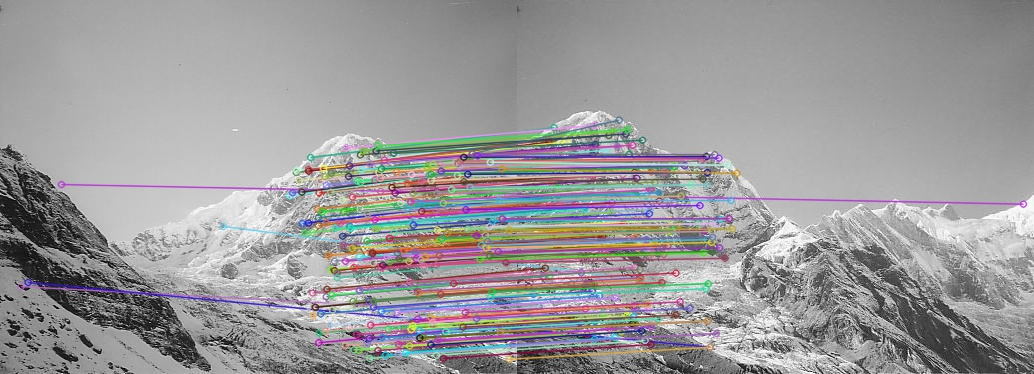
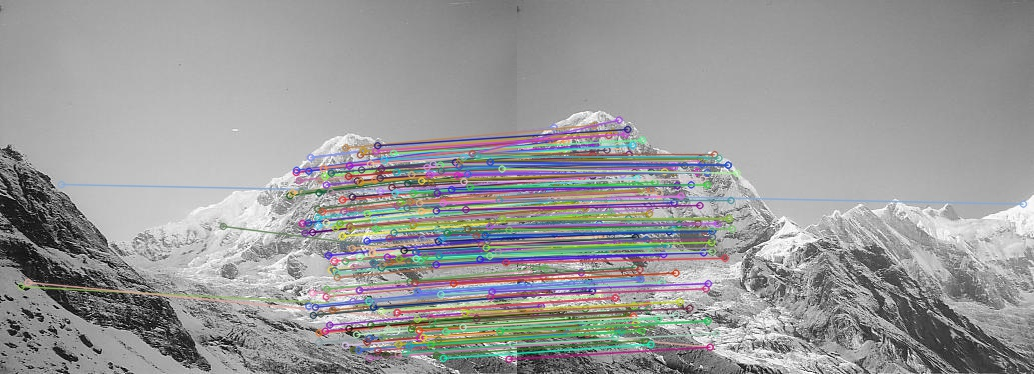
part 1 to 4 for Image features and homography completed

Changed region(s): [[0.0, 0.2941, 1.0, 0.9706], [0.0309, 0.4706, 0.1547, 0.5], [0.2166, 0.5882, 0.2476, 0.6176]]

diff --git a/image_features_homography.py b/image_features_homography.py
@@ -44,23 +44,18 @@ for i,(m,n) in enumerate(matches):
     if m.distance < 0.75*n.distance:
         ratioTestM.append([m])
         
-img3 = cv2.drawMatchesKnn(img1_g.copy(),keypoints_img1knn,img2_g.copy(),keypoints_img2knn,ratioTestM,None,flags =2)
+img3 = cv2.drawMatchesKnn(img1_g.copy(),keypoints_img1knn.copy(),img2_g.copy(),keypoints_img2knn.copy(),ratioTestM,None,flags =2)
 
 cv2.imwrite('1/task1_matches_knn.jpg',img3)
 
 
 # Part 3
 ratioTestM = np.array(ratioTestM)
-src_pts = np.float32([keypoints_img1knn[m.queryIdx].pt for m in ratioTestM.flatten()]).reshape(-1,1,2)
-dst_pts = np.float32([keypoints_img2knn[m.trainIdx].pt for m in ratioTestM.flatten()]).reshape(-1,1,2)
+src_pts = np.float32([keypoints_img1knn[m.queryIdx].pt for m in ratioTestM.flatten()])
+dst_pts = np.float32([keypoints_img2knn[m.trainIdx].pt for m in ratioTestM.flatten()])
 
-M, mask = cv2.findHomography(dst_pts,src_pts, cv2.RANSAC,5)
+M, mask = cv2.findHomography(src_pts,dst_pts, cv2.RANSAC,1)
 matchesMask = mask.ravel().tolist()
-
-draw_params = dict(matchColor = (0,255,0), # draw matches in green color
-                   singlePointColor = None,
-                   matchesMask = matchesMask, # draw only inliers
-                   flags = 2)
 
 # Random Sampling 10 points
 rand10matchesMask = []
@@ -71,27 +66,32 @@ for i in range(0,len(matchesMask)):
 rand10Places = np.random.choice(inlier_idx,10,replace=False)
 for i in range(0,len(matchesMask)):
     if((i == rand10Places).any()):
-        print(i)
         rand10matchesMask.append(1)
     else:
         rand10matchesMask.append(0)
 
-
-draw_params = dict(matchColor = (0,255,0), # draw matches in green color
+draw_params = dict(matchColor = (0,255,0),
                    singlePointColor = None,
-                   matchesMask = rand10matchesMask, # draw only inliers
+                   matchesMask = rand10matchesMask,
                    flags = 2)
 
 img4 = cv2.drawMatches(img1_g.copy(),keypoints_img1knn,img2_g.copy(),keypoints_img2knn,ratioTestM.flatten(),None,**draw_params)
 cv2.imwrite('1/task1_matches.jpg',img4)
 
-# Wraping
-translate = [[1,0,500],
-             [0,1,700],
-             [0,0,1]]
-translate = np.matrix(translate)
-nM = np.matmul(M,translate)
-h,w = np.shape(img2_g)
-warpImg = cv2.warpPerspective(img2_g.copy(),M,(w*22,h*22))
+# The Homography matrix has some points ofset so need to change that
+# https://stackoverflow.com/questions/22220253/cvwarpperspective-only-shows-part-of-warped-image
+# Therefore finding real corners after warping
+h,w = np.shape(img1_g)
+P = [[0,w,w,0],
+     [0,0,h,h],
+     [1,1,1,1]]
+P = np.matmul(M,P)
+P[0] = np.divide(P[0],P[2])
+P[1] = np.divide(P[1],P[2])
+M2 = M.copy()
+M2[0][2] = M[0][2] - min(P[0])
+M2[1][2] = M[1][2] - min(P[1])
+warpImg = cv2.warpPerspective(img1_g.copy(),M2,(w*2,h*2))
+# test[h:h*2,w:w*2]=img2_g.copy()
 #warpImg[0:h,0:w]=img2_g.copy()
 cv2.imwrite("1/task1_pano.jpg", warpImg)
